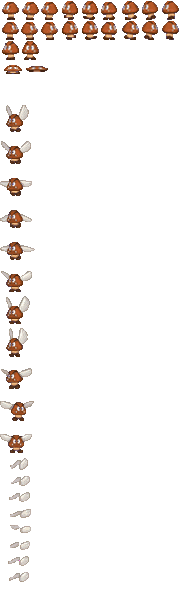
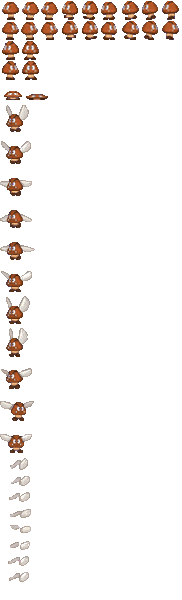
굼바 애니메이션 추가 구현
낙하 방식 변경, 마리오, 굼바 바탕 투명화, 충돌 체크 추가(아직 굼바만)

Changed region(s): [[0.0, 0.09, 0.2473, 0.18]]

diff --git a/new_super_mario.py b/new_super_mario.py
@@ -1,19 +1,22 @@
 from pico2d import *
 import random as rd
 
-class Mario:
+class Mario:  # 죽는 모션//달리기 방향 전환//점프 하강 착지 조건 변경
     def __init__(self):
-        self.x, self.y = canvas_width//2, canvas_height//2 - 200
+        self.x, self.y = canvas_width//2, canvas_height//2 - 280
         self.frameX = 0
         self.action = 1
         self.dir = 0
         self.heading = 0
-        self.jump_cnt = 0
+        self.jump_cnt = 13
         self.running_speed = 1.0
         self.running_cnt = 0
+        self.down = False
+        self.down_motion_flag = False
         self.image = load_image('mario.png')
         self.action_frame = [0,22,22,23,23,23,23,26,26]
-        self.RECT = [self.x - 30, self.y - 50, self.x + 30, self.y + 50]
+        self.rect = [self.x - 25, self.y - 40, self.x + 25, self.y + 40]
+
     def update(self,act):
         global action
         x_speed = 15
@@ -22,7 +25,7 @@ class Mario:
 
         if action == 7 or action == 8:
             self.running_cnt += 1
-            if self.running_speed < 3.0:
+            if self.running_speed < 2.1:
                 self.running_speed += 0.03
         else:
             if self.running_speed > 1:
@@ -39,19 +42,32 @@ class Mario:
             else:
                 self.frameX = (self.frameX + 1) % self.action_frame[action]
 
+        if self.down_motion_flag:
+            self.frameX = 18
+
         if self.dir < 0:
             self.x -= x_speed * self.running_speed
         elif self.dir > 0:
             self.x += x_speed * self.running_speed
 
-        if action == 5 or action == 6:
+        if self.down:
+            self.y += jump_speed - self.jump_cnt * gravity
+            if self.jump_cnt < 26:
+                self.jump_cnt += 1
+            if self.frameX == 18:
+                self.down_motion_flag = True
+            if self.y <= canvas_height//2 - 280:
+                action = 1
+                self.down = False
+                self.y = canvas_height//2 - 280
+                self.jump_cnt = 13
+                self.down_motion_flag = False
+
+        if (action == 5 or action == 6) and self.down == False:
             self.y += jump_speed - self.jump_cnt * gravity
             self.jump_cnt += 1
-            if self.y <= canvas_height//2 - 200:
-                action = 1
-                self.y = canvas_height//2 - 200
-                self.jump_up = True
-                self.jump_cnt = 0
+            if jump_speed - self.jump_cnt * gravity < 0:
+                self.down = True
 
         if action == 5 or action == 6:
             if self.dir == -1:
@@ -74,6 +90,8 @@ class Mario:
             elif self.dir == 1:
                 action = 3
 
+        self.rect = [self.x - 20, self.y - 40, self.x + 20, self.y + 40]
+
     def draw(self, act):
         png_height = 656
         if act == 1 or act == 2:
@@ -89,60 +107,91 @@ class Map:
 class Object:
     pass
 
-class Monster:
+class Monster:  #굼바 방향전환 모션, 다른 몬스터들
     def __init__(self,kind):
         self.x = rd.randint(0,1200)
-        self.y = 230
+        self.y = 155
         self.frame = 0
-        self.heading = 0
+        self.heading = -1
         self.life = True
-        self.sprite_num = [9,7,7,7]
-        self.Kind_of_Monster = kind
+        self.action = 1
+        self.Kind = kind
+        self.sprite_num = [[9,9,2,2,2],[7,7,7,7]] # 0 = Goomba // 1 =
+        self.size = [[30,30]]
+        self.rect = [self.x - self.size[self.Kind][0],self.y - self.size[self.Kind][1],
+                     self.x + self.size[self.Kind][0],self.y + self.size[self.Kind][1]]
+        self.testcnt = 0
 
-        if self.Kind_of_Monster == 0:
+        if self.Kind == 0:
             self.img = load_image('goomba.png')
-        elif self.Kind_of_Monster == 1:
+        elif self.Kind == 1:
             self.img = load_image('goomba.png')
-        elif self.Kind_of_Monster == 2:
+        elif self.Kind == 2:
             self.img = load_image('goomba.png')
-        elif self.Kind_of_Monster == 3:
+        elif self.Kind == 3:
             self.img = load_image('goomba.png')
 
     def update(self):
-        if self.heading == 0:
+        if self.action == 4:
+            if self.frame % 2 == 0:
+                self.action = 1
+                #self.heading = -1
+
+        elif self.action == 3:
+            if self.frame % 2 == 0:
+                self.action = 2
+                #self.heading = 1
+
+        if self.action == 1:
             self.x -= 5
-        elif self.heading == 1:
+        elif self.action == 2:
             self.x += 5
 
-        if mario.x > self.x:
-            self.heading = 1
-        else:
-            self.heading = 0
+        if 1190 < self.x:
+            self.frame = 0
+            self.action = 4
+            self.x = 1188
+        elif 10 > self.x:
+            self.frame = 0
+            self.action = 3
+            self.x = 11
 
-        self.frame = (self.frame + 1) % self.sprite_num[self.Kind_of_Monster]
+        if self.life == False:
+            self.testcnt += 1
+            if self.testcnt % 70 == 69:
+                self.testcnt = 0
+                self.action = rd.randint(1,2)
+                # if self.action == 1:
+                #     self.heading = -1
+                # else:
+                #     self.heading = 1
+                self.life = True
+                self.x = rd.randint(0,1200)
+
+        self.frame = (self.frame + 1) % self.sprite_num[self.Kind][self.action - 1]
+        self.rect = [self.x - self.size[self.Kind][0],self.y - self.size[self.Kind][1],
+                     self.x + self.size[self.Kind][0],self.y + self.size[self.Kind][1]]
+
     def draw(self):
         png_h = 600
         if self.life:
-            if self.Kind_of_Monster == 0:
-                self.img.clip_draw(self.frame * 20, png_h - 20 * (1+self.heading), 20,20,self.x, self.y, 60, 60)
-            elif self.Kind_of_Monster == 1:
+            if self.Kind == 0:
+                self.img.clip_draw(self.frame * 20, png_h - 20 * self.action, 20,20,self.x, self.y, 60, 60)
+            elif self.Kind == 1:
                 self.img.clip_draw(self.frame * 20, png_h - 20 * 1, 20,20,self.x, self.y, 60, 60)
-            elif self.Kind_of_Monster == 2:
+            elif self.Kind == 2:
                 self.img.clip_draw(self.frame * 20, png_h - 20 * 1, 20,20,self.x, self.y, 60, 60)
-            elif self.Kind_of_Monster == 3:
+            elif self.Kind == 3:
                 self.img.clip_draw(self.frame * 20, 200, 20,20,self.x, self.y)
         else:
-            if self.Kind_of_Monster == 0:
-                self.img.clip_draw(self.frame * 20, png_h - 20 * 1, 20,20,self.x, self.y, 60, 60)
-            elif self.Kind_of_Monster == 1:
-                self.img.clip_draw(self.frame * 20, png_h - 20 * 1, 20,20,self.x, self.y, 60, 60)
-            elif self.Kind_of_Monster == 2:
-                self.img.clip_draw(self.frame * 20, png_h - 20 * 1, 20,20,self.x, self.y, 60, 60)
-            elif self.Kind_of_Monster == 3:
-                self.img.clip_draw(self.frame * 20, 200, 20,20,self.x, self.y)
+            if self.Kind == 0 and self.testcnt < 15:
+                self.frame = self.testcnt - 1
+                if self.testcnt > 2:
+                    self.frame = 1
+                self.img.clip_draw(self.frame * 25, png_h - 20 * self.action, 25, 20, self.x, self.y, 60, 60)
 
 def InRect(Rect,pt):
-    if Rect[0] < pt[0] and pt[0] < Rect[3] and Rect[1] < pt[1] and pt[1] < Rect[3]:
+    if Rect[0] < pt[0] and pt[0] < Rect[2] and Rect[1] < pt[1] and pt[1] < Rect[3]:
         return True
     else:
         return False
@@ -160,6 +209,7 @@ def handle_events():
             if event.key == SDLK_UP:
                 if action != 5 and action != 6:
                     mario.frameX = 0
+                    mario.jump_cnt = 0
                     mario.running_cnt = 0
                     if mario.dir == 1 or mario.heading == 1:
                         action = 5
@@ -182,6 +232,7 @@ def handle_events():
                         action = 8
             if event.key == SDLK_SPACE:
                 mario.frameX = 0
+                mario.jump_cnt = 0
                 mario.running_cnt = 0
                 if mario.dir == 1 or mario.heading == 1:
                     action = 5
@@ -223,7 +274,9 @@ action = 1
 open_canvas(canvas_width,canvas_height)
 mario = Mario()
 
-goombas = [Monster(0) for i in range(3)]
+testmap = load_image('testmap.png')
+
+goombas = [Monster(0) for i in range(5)]
 # green_turtle = Monster(1)
 # red_turtle = Monster(2)
 # gr_turtle = Monster(3)
@@ -232,17 +285,42 @@ running = True
 
 while(running):
     clear_canvas()
+    testmap.draw(600, 450)
     mario.draw(action)
     mario.update(action)
-    for i in range(3):
+
+    for i in range(5):
         goombas[i].update()
         goombas[i].draw()
-   #print(mario.dir, action)
+
+    for i in range(5):  # 충돌체크
+        if InRect(goombas[i].rect, [mario.x, mario.y]) and mario.down == False:
+            if goombas[i].life:
+                mario.y = 800
+                mario.down = True
+                mario.jump_cnt = 13
+                if mario.heading == 1:
+                    action = 5
+                elif mario.heading == -1:
+                    action = 6
+        elif InRect(goombas[i].rect, [mario.x, mario.y - 40]) and mario.down:
+            if goombas[i].life:
+                goombas[i].action = 5
+                goombas[i].frame = 0
+                goombas[i].life = False
+                if mario.heading == -1:
+                    action = 6
+                elif mario.heading == 1:
+                    action = 5
+                mario.frameX = 0
+                mario.down = False
+                mario.down_motion_flag = False
+                mario.jump_cnt = 3
+                print(goombas[i].frame, goombas[i].action)
+
+
     update_canvas()
     handle_events()
     delay(0.035)
 
 close_canvas()
-
-
-
